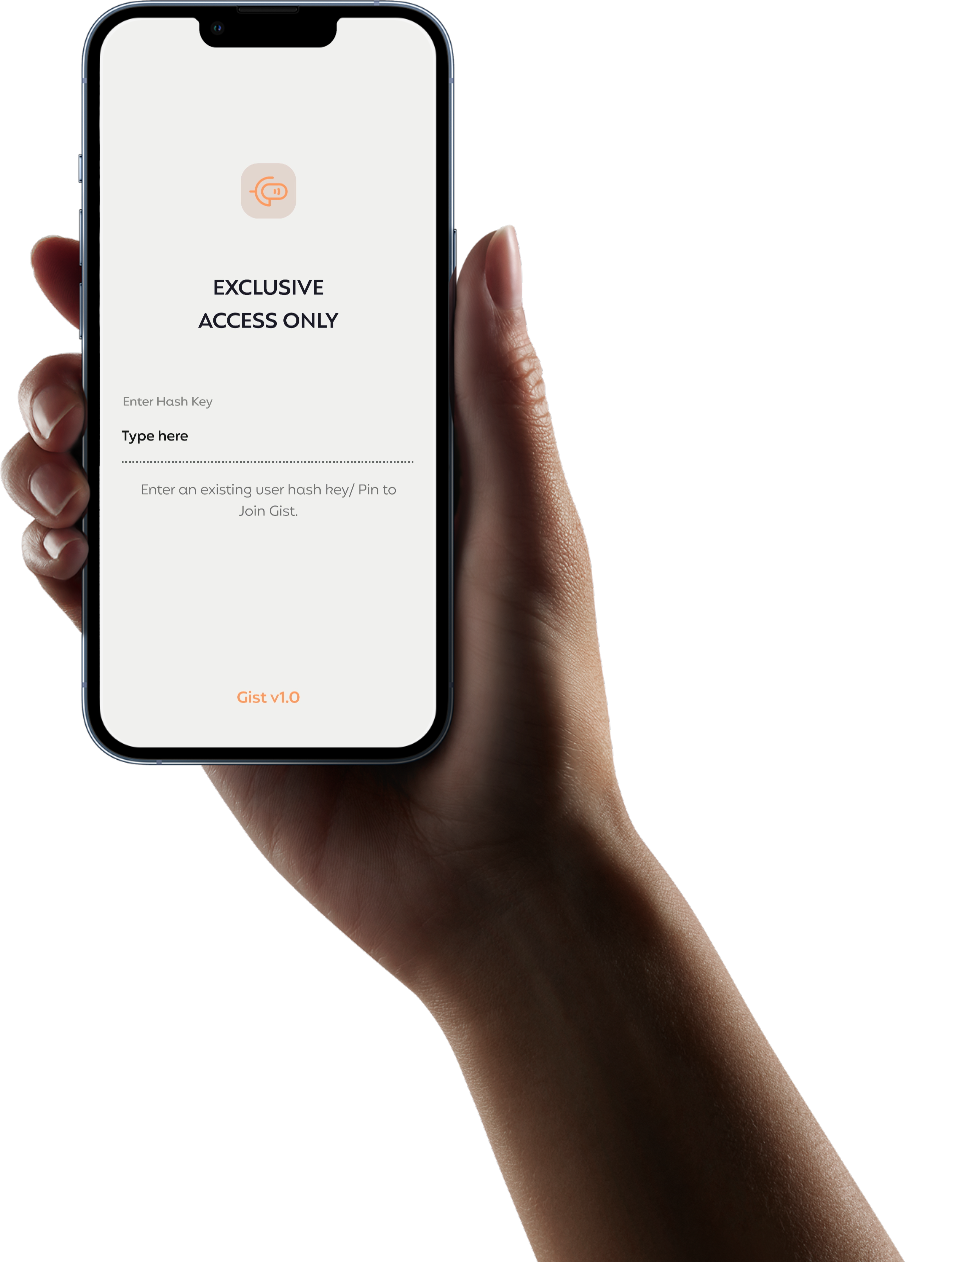
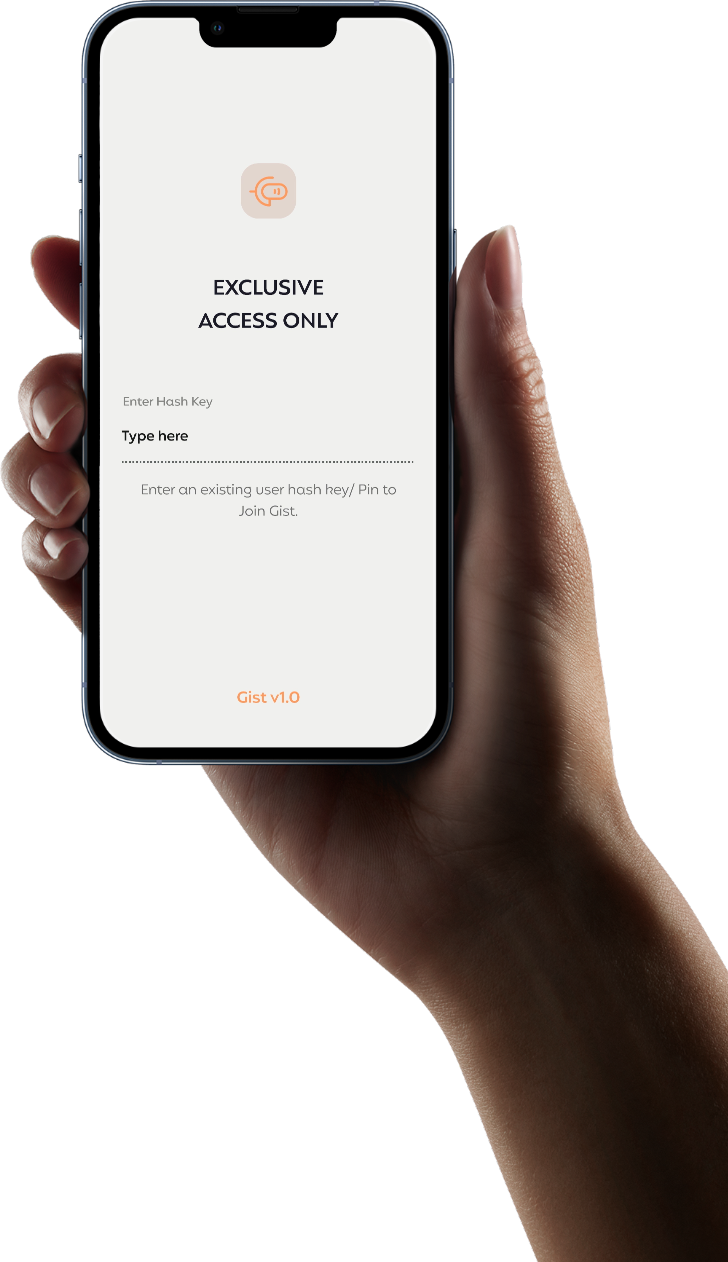
fixed center issues

diff --git a/pages/index.js b/pages/index.js
@@ -23,9 +23,9 @@ export default function Home() {
                 </h1>
               </div>
             </div>
-            <div className="lg:flex flex-1">
-              <div className="w-[90%] mx-auto lg:w-1/2 md:h-full lg:h-[unset] flex justify-center">
-                <div className={`md:w-4/6 md:h-[70vh] flex flex-col justify-center text-center sm:text-left ${styles.share}`}>
+            <div className="md:grid lg:grid-cols-2">
+              <div className="w-[90%] mx-auto  md:h-full lg:h-[unset] flex justify-center">
+                <div className={`md:w-5/6 md:h-[70vh] flex flex-col justify-center lg:ml-auto text-center sm:text-left ${styles.share}`}>
                   <h1 className="text-2xl mb-2 sm:mb-6 md:text-[50px] text-dark font-bold font-[Mangueira]">
                     Share the Gist
                   </h1>
@@ -49,11 +49,11 @@ export default function Home() {
                   </div>
                 </div>
               </div>
-              <div className="md:hidden lg:block overflow-x-hidden">
+              <div className="md:hidden xl:block overflow-x-hidden ml-32">
                 <img 
                   src="/assets/images/hand.png"
                   alt=""
-                  className={`lg:w-[46rem] xl3:w-[60rem] mt-8 ml-20 md:ml-16 ${styles.hand}`}
+                  className={`lg:w-[36rem] 2xl:w-[36rem] xl3:w-[44rem] mx-auto mt-8 ${styles.hand}`}
                 />
               </div>
             </div>
